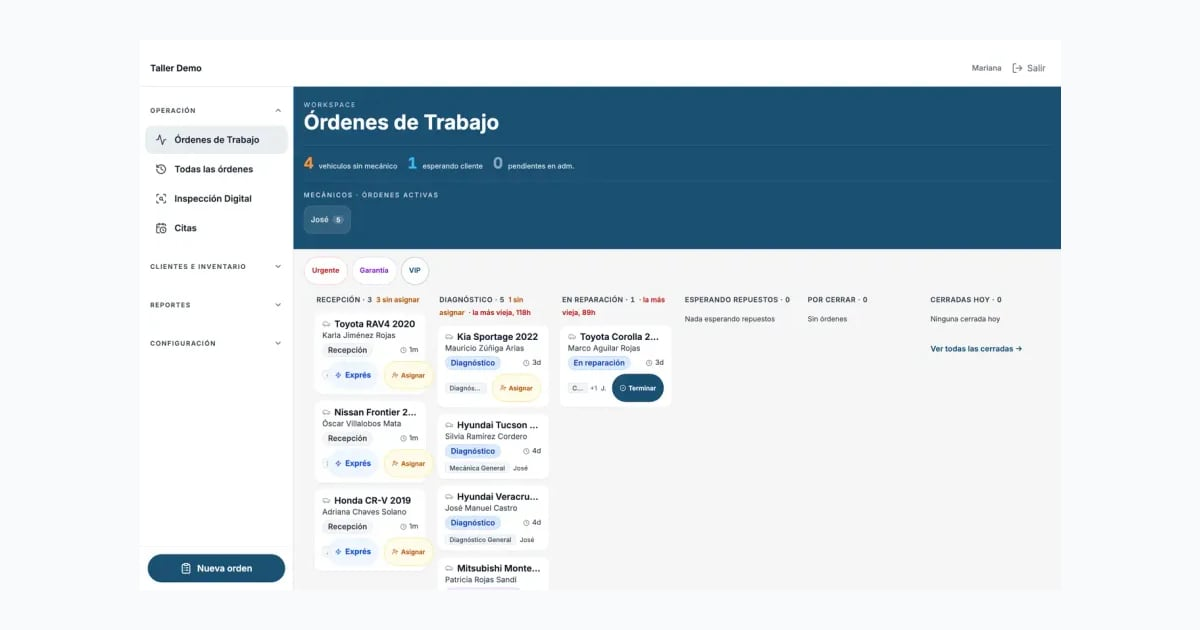
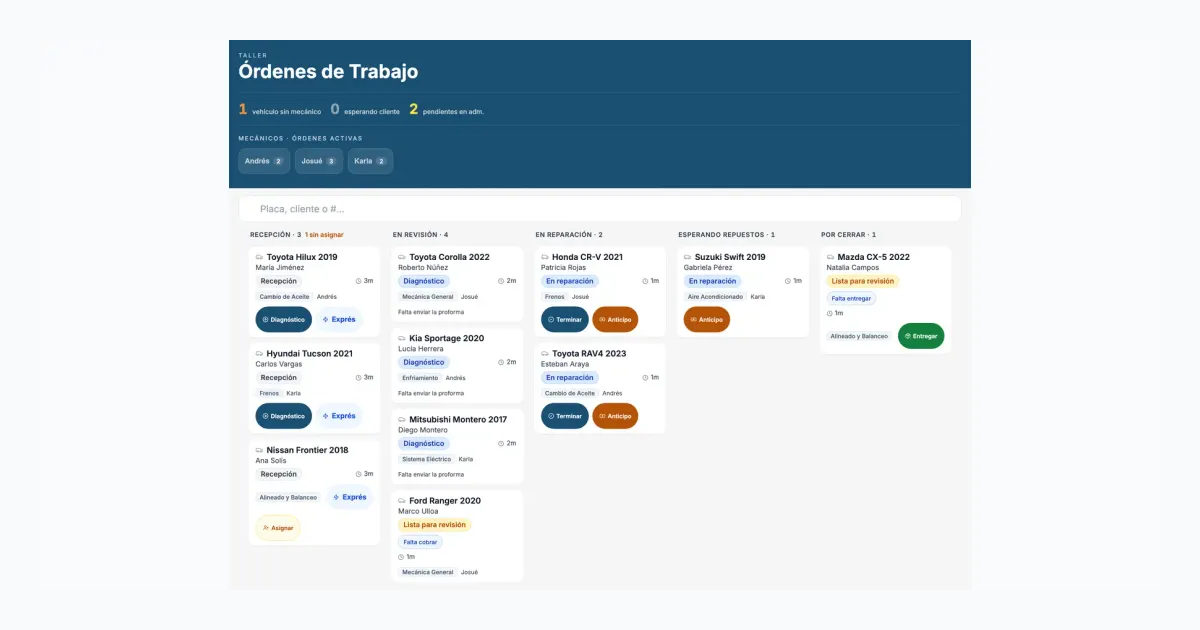
El nav se comía la primera pantalla del teléfono · y la proforma deja de ser una foto (#44)
* fix(nav): la cabecera se comía la primera pantalla del teléfono

Medido el 2026-10-09 en un teléfono de 812 px: la barra ocupaba 146 px
—la marca en una línea y los enlaces envueltos en dos— y empujaba la
primera imagen del producto a y=879, debajo del pliegue. Un dueño abría
el sitio en el teléfono y no veía el sistema hasta bajar.

Ahora la barra mide 45 px y la imagen sube a 719 en un iPhone común. A
320 px queda en 778; antes era 829.

   ancho   barra antes → después   1ª imagen antes → después
   320      96 → 45                 824 → 778
   375     146 → 45                 879 → 719
   390     146 → 45                 879 → 691

El menú se colapsa con <details>, que es lo que esta hoja ya usa para
los desplegables: cero JavaScript y el estado abierto lo lleva el
navegador. A partir de 56rem —medido: es donde la barra pasaba sola de
146 a 45— el <details> se vuelve `display:contents` y el menú
desaparece, así que el escritorio queda exactamente como estaba y no
hay una segunda maqueta que mantener.

Dos cosas que salieron de verificar, no del plan:

· El botón del menú daba 83x39 de área táctil, bajo el mínimo de 44.
  `min-height:44px`.

· A 320 px la marca (199) y el botón (85) no caben en los 288 de la
  barra. Se esconde el subtítulo «Costa Rica», que mide 65 y aparece
  otras tres veces en la página más la meta description.

Y un defecto ajeno que apareció al medir: `.cta-fijo` —la barra de
precio del pie— no estaba dentro de ningún landmark, y axe lo marca.
[…]

diff --git a/styles.css b/styles.css
@@ -851,6 +851,109 @@ main > .env:not(.texto) > .nota,
 
    Cada lista incluye su propia página índice como primer ítem, para que abrir
    el desplegable no le quite al visitante el destino que el rótulo prometía. */
+/* ── Maqueta de producto en HTML ───────────────────────────────────────────
+   Una pantalla del producto dibujada con marcado, no fotografiada.
+
+   Por qué, medido: `board.webp` dijo «DIAGNÓSTICO» tres semanas después de
+   que el producto renombrara esa columna a «En revisión», y corregirlo exigió
+   levantar Supabase local, sembrar once órdenes y rehacer la foto. Una
+   maqueta también se desactualiza —no miente menos—, pero arreglarla es
+   editar una línea en vez de reconstruir un entorno.
+
+   Lo que además gana: refluye sola a cualquier ancho (la captura era un PNG
+   de ancho fijo), el texto se puede buscar y leer con lector de pantalla, y
+   pesa ~2 KB de marcado contra los 29 828 B del WebP.
+
+   Los botones son <span>, no <button>: esto ilustra, no funciona. Un control
+   real acá sería enfocable y prometería una acción que no existe. */
+.maqueta{
+  max-width:20rem; margin-inline:auto; font-size:.8125rem; line-height:1.45;
+  border:1px solid var(--linea); border-radius:16px; overflow:hidden;
+  background:var(--blanco); box-shadow:var(--sombra-alta);
+}
+.maqueta-tope{background:var(--acento);color:var(--blanco);padding:.9rem 1rem}
+.maqueta-tope b{display:block;font-size:.875rem}
+.maqueta-tope span{display:block;opacity:.85;font-size:.75rem}
+.maqueta-tope p{margin:.7rem 0 0;font-size:1.0625rem;font-weight:700}
+.maqueta-tope .vence{margin:.35rem 0 0;font-size:.75rem;font-weight:400;opacity:.9}
+.maqueta-cuerpo{padding:.85rem;display:grid;gap:.7rem;background:var(--fondo-alt)}
+.maqueta-caja{background:var(--blanco);border:1px solid var(--linea);border-radius:12px;padding:.75rem}
+.maqueta-caja h4{margin:0;font-size:.8125rem}
+.maqueta-caja h4 + p{margin:.2rem 0 0;color:var(--muted);font-size:.75rem}
+.maqueta-linea{border-top:1px solid var(--linea);padding-top:.6rem;margin-top:.6rem}
+.maqueta-linea:first-of-type{border-top:0;padding-top:0;margin-top:0}
+.maqueta-linea > div{display:flex;justify-content:space-between;align-items:baseline;gap:.5rem}
+.maqueta-linea .monto{font-weight:700;white-space:nowrap;font-variant-numeric:tabular-nums}
+.maqueta-ops{display:flex;gap:.4rem;margin-top:.45rem}
+.maqueta-ops span{
+  flex:1;text-align:center;border:1px solid var(--linea);border-radius:8px;
+  padding:.4rem;font-weight:600;font-size:.75rem;color:var(--muted);
+}
+.maqueta-pie{background:var(--blanco);border-top:1px solid var(--linea);padding:.8rem;text-align:center}
+.maqueta-pie .cuenta{margin:0 0 .5rem;font-size:.75rem;color:var(--muted)}
+.maqueta-pie .par{display:flex;gap:.5rem}
+.maqueta-pie .par span{flex:1;border-radius:8px;padding:.5rem;font-weight:700;font-size:.8125rem}
+.maqueta-pie .no{border:1px solid #FCA5A5;color:#B91C1C}
+.maqueta-pie .si{background:var(--acento);color:var(--blanco)}
+.maqueta-pie .aclara{margin:.6rem 0 0;font-size:.6875rem;color:var(--muted);line-height:1.4}
+
+/* ── El menú de teléfono ───────────────────────────────────────────────────
+   Medido el 2026-10-09: a 375 px la cabecera ocupaba 146 px —la marca en una
+   línea y los enlaces envueltos en dos— y empujaba la primera imagen del
+   producto a y=879, debajo del pliegue de 812. Un dueño abría el sitio en el
+   teléfono y no veía el sistema hasta bajar.
+
+   Se colapsa con <details>, que es lo que esta hoja ya usa para los
+   desplegables: cero JavaScript y el navegador gestiona el estado abierto.
+
+   A partir de 56rem (900 px) todo cabe en una línea —medido: la barra pasa de
+   146 a 45 px—, así que ahí el <details> se vuelve `display:contents` y el
+   menú desaparece: el nav queda EXACTAMENTE como estaba, sin una regla nueva
+   que mantener para el escritorio. */
+.menu > summary{
+  list-style:none; cursor:pointer; font-weight:600; font-size:.9375rem;
+  padding:.4rem .9rem; border:1px solid var(--linea); border-radius:999px;
+  display:inline-flex; align-items:center; gap:.4rem;
+  /* 44px es el mínimo táctil; con el padding solo daba 39 (medido). */
+  min-height:44px;
+}
+.menu > summary::-webkit-details-marker{display:none}
+.menu > summary::after{
+  content:""; width:.42em; height:.42em; border-right:2px solid currentColor;
+  border-bottom:2px solid currentColor; transform:rotate(45deg) translate(-.06em,-.06em);
+}
+.menu[open] > summary::after{transform:rotate(225deg) translate(-.06em,-.06em)}
+.menu > summary:focus-visible{outline:3px solid var(--acento);outline-offset:3px}
+.menu-panel{
+  position:absolute; right:0; left:0; margin-top:.6rem; z-index:40;
+  display:flex; flex-direction:column; align-items:flex-start; gap:.25rem;
+  background:var(--blanco); border:1px solid var(--linea); border-radius:12px;
+  padding:.6rem; box-shadow:var(--sombra-alta);
+}
+.menu-panel > a,
+.menu-panel .desplegable > summary{padding:.55rem .6rem; min-height:44px; display:flex; align-items:center}
+/* Dentro del panel el submenú se abre en el flujo, no flotando sobre él. */
+.menu-panel .desplegable{position:static; width:100%}
+.menu-panel .desplegable-lista{position:static; box-shadow:none; border:0; padding-left:.9rem; min-width:0}
+.menu{position:static}
+.barra{position:relative}
+
+/* A 320 px la marca (199 px) y el botón (85) no caben en los 288 de la barra:
+   faltan 12 con el hueco de 1rem. El subtítulo «Costa Rica» mide 65 y aparece
+   otras tres veces en la página más la meta description, así que esconderlo
+   acá no pierde el posicionamiento y devuelve la cabecera a una sola línea. */
+@media(max-width:22rem){
+  .marca span{display:none}
+  .barra{gap:.5rem}
+}
+
+@media(min-width:56rem){
+  /* El <details> desaparece del layout y sus hijos vuelven a ser hijos del
+     <nav>: el escritorio queda byte por byte como antes del cambio. */
+  .menu, .menu-panel{display:contents}
+  .menu > summary{display:none}
+}
+
 .desplegable{position:relative}
 .desplegable > summary{
   display:inline-flex;align-items:center;gap:.3rem;min-height:44px;

diff --git a/para/vehiculos-electricos.html b/para/vehiculos-electricos.html
@@ -14,7 +14,7 @@
 <meta property="og:image" content="https://integranucleo.com/imagenes/og.jpg">
 <meta property="og:image:width" content="1200">
 <meta property="og:image:height" content="630">
-<meta property="og:image:alt" content="El tablero de órdenes de Integra Núcleo, con las columnas de recepción, diagnóstico y reparación.">
+<meta property="og:image:alt" content="El tablero de órdenes de Integra Núcleo, con sus cinco columnas: recepción, en revisión, en reparación, esperando repuestos y por cerrar.">
 <meta name="twitter:card" content="summary_large_image">
 <meta name="robots" content="index,follow">
 <link rel="preload" href="/fonts/inter-latin-var.woff2" as="font" type="font/woff2" crossorigin>
@@ -25,7 +25,7 @@
   <div class="env">
     <div class="barra">
       <a class="marca" href="/"><b>Integra Núcleo</b><span>Costa Rica</span></a>
-      <nav aria-label="Principal"><a href="/funciones">Funciones</a><details class="desplegable" name="menu"><summary aria-current="true">Tipos de taller</summary><div class="desplegable-lista"><a href="/para">Ver los tres</a><a href="/para/taller-general">Taller general</a><a href="/para/centro-de-servicio">Centro de servicio</a><a href="/para/vehiculos-electricos" aria-current="page">Eléctricos e híbridos</a></div></details><details class="desplegable" name="menu"><summary>Recursos</summary><div class="desplegable-lista"><a href="/recursos">Todos los recursos</a><a href="/plantillas">Plantillas para imprimir</a><a href="/aria">Cómo funciona nuestra IA</a></div></details><a href="/precios">Precios</a><a href="/contacto">Contacto</a><a class="entrar" href="https://integranucleo.app">Entrar</a></nav>
+      <nav aria-label="Principal"><details class="menu"><summary>Menú</summary><div class="menu-panel"><a href="/funciones">Funciones</a><details class="desplegable" name="menu"><summary aria-current="true">Tipos de taller</summary><div class="desplegable-lista"><a href="/para">Ver los tres</a><a href="/para/taller-general">Taller general</a><a href="/para/centro-de-servicio">Centro de servicio</a><a href="/para/vehiculos-electricos" aria-current="page">Eléctricos e híbridos</a></div></details><details class="desplegable" name="menu"><summary>Recursos</summary><div class="desplegable-lista"><a href="/recursos">Todos los recursos</a><a href="/plantillas">Plantillas para imprimir</a><a href="/aria">Cómo funciona nuestra IA</a></div></details><a href="/precios">Precios</a><a href="/contacto">Contacto</a><a class="entrar" href="https://integranucleo.app">Entrar</a></div></details></nav>
     </div>
   </div>
 </header>
@@ -116,12 +116,41 @@
           </ul>
         </div>
       </div>
-      <figure class="captura captura--telefono">
-        <img src="/imagenes/proforma-cliente.webp" width="420" height="1053" loading="lazy" decoding="async"
-             alt="La proforma como la abre el cliente en su teléfono. Dice hasta qué fecha vale el
-                  precio, lista cada repuesto con su monto y da dos botones por línea —«Lo quiero»
-                  y «Ahora no»—, con el aviso de que lo marcado «Ahora no» no se cobra ni se hace.">
-        <figcaption>La proforma que el cliente autoriza punto por punto, desde su teléfono. Datos de un taller de demostración.</figcaption>
+      <figure class="captura">
+        <div class="maqueta">
+          <div class="maqueta-tope">
+            <b>Taller Demostración</b><span>con tecnología de Integra Núcleo</span>
+            <p>Proforma de servicio</p>
+            <p class="vence">Este precio vale hasta el 21 de octubre.</p>
+          </div>
+          <div class="maqueta-cuerpo">
+            <div class="maqueta-caja">
+              <h4>Mitsubishi Montero 2017</h4>
+              <p>Placa: CPN163 · 121&#8239;700&nbsp;km</p>
+            </div>
+            <div class="maqueta-caja">
+              <h4>Repuestos y mano de obra</h4>
+              <div class="maqueta-linea" style="margin-top:.7rem">
+                <div><span>Alternador reconstruido 90A</span><span class="monto">₡96&#8239;000</span></div>
+                <p class="maqueta-ops"><span>Lo quiero</span><span>Ahora no</span></p>
+              </div>
+              <div class="maqueta-linea">
+                <div><span>Banda de accesorios</span><span class="monto">₡18&#8239;500</span></div>
+                <p class="maqueta-ops"><span>Lo quiero</span><span>Ahora no</span></p>
+              </div>
+              <div class="maqueta-linea">
+                <div><span>Batería 12V 75Ah</span><span class="monto">₡72&#8239;000</span></div>
+                <p class="maqueta-ops"><span>Lo quiero</span><span>Ahora no</span></p>
+              </div>
+            </div>
+          </div>
+          <div class="maqueta-pie">
+            <p class="cuenta">Te faltan <b>3</b> ítems por decidir</p>
+            <p class="par"><span class="no">Rechazar todo</span><span class="si">Aprobar todo</span></p>
+            <p class="aclara">Lo que marcaste «Ahora no» no se cobra ni se hace — el taller lo guarda por si lo querés después.</p>
+          </div>
+        </div>
+        <figcaption>La proforma que el cliente autoriza punto por punto, desde su teléfono. Reproducción de la pantalla del producto, con datos de un taller de demostración.</figcaption>
       </figure>
     </section>
 

diff --git a/para/centro-de-servicio.html b/para/centro-de-servicio.html
@@ -9,12 +9,12 @@
 <meta property="og:type" content="website">
 <meta property="og:url" content="https://integranucleo.com/para/centro-de-servicio">
 <meta property="og:title" content="Integra Núcleo para el centro de servicio y el servicio rápido">
-<meta property="og:description" content="El carro entra y sale el mismo día: el tablero se acorta y el catálogo entiende la llanta.">
+<meta property="og:description" content="El carro entra y sale el mismo día: la orden exprés salta el presupuesto y el catálogo entiende la llanta.">
 <meta property="og:locale" content="es_CR">
 <meta property="og:image" content="https://integranucleo.com/imagenes/og.jpg">
 <meta property="og:image:width" content="1200">
 <meta property="og:image:height" content="630">
-<meta property="og:image:alt" content="El tablero de órdenes de Integra Núcleo, con las columnas de recepción, diagnóstico y reparación.">
+<meta property="og:image:alt" content="El tablero de órdenes de Integra Núcleo, con sus cinco columnas: recepción, en revisión, en reparación, esperando repuestos y por cerrar.">
 <meta name="twitter:card" content="summary_large_image">
 <meta name="robots" content="index,follow">
 <link rel="preload" href="/fonts/inter-latin-var.woff2" as="font" type="font/woff2" crossorigin>
@@ -25,7 +25,7 @@
   <div class="env">
     <div class="barra">
       <a class="marca" href="/"><b>Integra Núcleo</b><span>Costa Rica</span></a>
-      <nav aria-label="Principal"><a href="/funciones">Funciones</a><details class="desplegable" name="menu"><summary aria-current="true">Tipos de taller</summary><div class="desplegable-lista"><a href="/para">Ver los tres</a><a href="/para/taller-general">Taller general</a><a href="/para/centro-de-servicio" aria-current="page">Centro de servicio</a><a href="/para/vehiculos-electricos">Eléctricos e híbridos</a></div></details><details class="desplegable" name="menu"><summary>Recursos</summary><div class="desplegable-lista"><a href="/recursos">Todos los recursos</a><a href="/plantillas">Plantillas para imprimir</a><a href="/aria">Cómo funciona nuestra IA</a></div></details><a href="/precios">Precios</a><a href="/contacto">Contacto</a><a class="entrar" href="https://integranucleo.app">Entrar</a></nav>
+      <nav aria-label="Principal"><details class="menu"><summary>Menú</summary><div class="menu-panel"><a href="/funciones">Funciones</a><details class="desplegable" name="menu"><summary aria-current="true">Tipos de taller</summary><div class="desplegable-lista"><a href="/para">Ver los tres</a><a href="/para/taller-general">Taller general</a><a href="/para/centro-de-servicio" aria-current="page">Centro de servicio</a><a href="/para/vehiculos-electricos">Eléctricos e híbridos</a></div></details><details class="desplegable" name="menu"><summary>Recursos</summary><div class="desplegable-lista"><a href="/recursos">Todos los recursos</a><a href="/plantillas">Plantillas para imprimir</a><a href="/aria">Cómo funciona nuestra IA</a></div></details><a href="/precios">Precios</a><a href="/contacto">Contacto</a><a class="entrar" href="https://integranucleo.app">Entrar</a></div></details></nav>
     </div>
   </div>
 </header>
@@ -47,7 +47,7 @@
         <div>
           <svg class="ico" viewBox="0 0 24 24" fill="none" stroke="currentColor" stroke-width="1.75" stroke-linecap="round" stroke-linejoin="round" aria-hidden="true"><rect x="3" y="4" width="5" height="16" rx="1.5"/><rect x="10" y="4" width="5" height="11" rx="1.5"/><rect x="17" y="4" width="4" height="7" rx="1.5"/></svg>
           <h3>La orden exprés salta el presupuesto</h3>
-          <p>Si el trabajo ya tiene precio, la tarjeta ofrece cerrarlo sin pasar por proforma: eso es lo que hace que el carro entre y salga el mismo turno. Y el tablero de supervisión del gerente se acorta a cuatro columnas.</p>
+          <p>Si el trabajo ya tiene precio, la tarjeta ofrece cerrarlo sin pasar por proforma: eso es lo que hace que el carro entre y salga el mismo turno. Y en el tablero la columna de reparación se llama «En servicio», que es como lo nombra un centro de servicio.</p>
         </div>
         <div>
           <svg class="ico" viewBox="0 0 24 24" fill="none" stroke="currentColor" stroke-width="1.75" stroke-linecap="round" stroke-linejoin="round" aria-hidden="true"><path d="M3 12.5V4.8A1.8 1.8 0 0 1 4.8 3h7.7l8.2 8.2a1.8 1.8 0 0 1 0 2.5l-6.4 6.4a1.8 1.8 0 0 1-2.5 0z"/><circle cx="8" cy="8" r="1.5"/></svg>

diff --git a/precios.html b/precios.html
@@ -14,7 +14,7 @@
 <meta property="og:image" content="https://integranucleo.com/imagenes/og.jpg">
 <meta property="og:image:width" content="1200">
 <meta property="og:image:height" content="630">
-<meta property="og:image:alt" content="El tablero de órdenes de Integra Núcleo, con las columnas de recepción, diagnóstico y reparación.">
+<meta property="og:image:alt" content="El tablero de órdenes de Integra Núcleo, con sus cinco columnas: recepción, en revisión, en reparación, esperando repuestos y por cerrar.">
 <meta name="twitter:card" content="summary_large_image">
 <meta name="robots" content="index,follow">
 <link rel="preload" href="/fonts/inter-latin-var.woff2" as="font" type="font/woff2" crossorigin>
@@ -25,7 +25,7 @@
   <div class="env">
     <div class="barra">
       <a class="marca" href="/"><b>Integra Núcleo</b><span>Costa Rica</span></a>
-      <nav aria-label="Principal"><a href="/funciones">Funciones</a><details class="desplegable" name="menu"><summary>Tipos de taller</summary><div class="desplegable-lista"><a href="/para">Ver los tres</a><a href="/para/taller-general">Taller general</a><a href="/para/centro-de-servicio">Centro de servicio</a><a href="/para/vehiculos-electricos">Eléctricos e híbridos</a></div></details><details class="desplegable" name="menu"><summary>Recursos</summary><div class="desplegable-lista"><a href="/recursos">Todos los recursos</a><a href="/plantillas">Plantillas para imprimir</a><a href="/aria">Cómo funciona nuestra IA</a></div></details><a href="/precios" aria-current="page">Precios</a><a href="/contacto">Contacto</a><a class="entrar" href="https://integranucleo.app">Entrar</a></nav>
+      <nav aria-label="Principal"><details class="menu"><summary>Menú</summary><div class="menu-panel"><a href="/funciones">Funciones</a><details class="desplegable" name="menu"><summary>Tipos de taller</summary><div class="desplegable-lista"><a href="/para">Ver los tres</a><a href="/para/taller-general">Taller general</a><a href="/para/centro-de-servicio">Centro de servicio</a><a href="/para/vehiculos-electricos">Eléctricos e híbridos</a></div></details><details class="desplegable" name="menu"><summary>Recursos</summary><div class="desplegable-lista"><a href="/recursos">Todos los recursos</a><a href="/plantillas">Plantillas para imprimir</a><a href="/aria">Cómo funciona nuestra IA</a></div></details><a href="/precios" aria-current="page">Precios</a><a href="/contacto">Contacto</a><a class="entrar" href="https://integranucleo.app">Entrar</a></div></details></nav>
     </div>
   </div>
 </header>
@@ -167,7 +167,7 @@
     <p><a href="/privacidad">Privacidad</a> · <a href="/terminos">Términos</a> · <a href="/contacto">Contacto</a> · <a href="https://integranucleo.app">Entrar</a></p>
   </div>
 </footer>
-<div class="cta-fijo">
+<div class="cta-fijo" role="region" aria-label="Precio y demostración">
   <p class="precio-desde">Mecánicos ilimitados</p>
   <a class="btn btn-1" href="/contacto?de=precios">Pedir una demostración</a>
 </div>

diff --git a/index.html b/index.html
@@ -14,7 +14,7 @@
 <meta property="og:image" content="https://integranucleo.com/imagenes/og.jpg">
 <meta property="og:image:width" content="1200">
 <meta property="og:image:height" content="630">
-<meta property="og:image:alt" content="El tablero de órdenes de Integra Núcleo, con las columnas de recepción, diagnóstico y reparación.">
+<meta property="og:image:alt" content="El tablero de órdenes de Integra Núcleo, con sus cinco columnas: recepción, en revisión, en reparación, esperando repuestos y por cerrar.">
 <meta name="twitter:card" content="summary_large_image">
 <meta name="robots" content="index,follow">
 <link rel="preload" href="/fonts/inter-latin-var.woff2" as="font" type="font/woff2" crossorigin>
@@ -25,7 +25,7 @@
   <div class="env">
     <div class="barra">
       <a class="marca" href="/"><b>Integra Núcleo</b><span>Costa Rica</span></a>
-      <nav aria-label="Principal"><a href="/funciones">Funciones</a><details class="desplegable" name="menu"><summary>Tipos de taller</summary><div class="desplegable-lista"><a href="/para">Ver los tres</a><a href="/para/taller-general">Taller general</a><a href="/para/centro-de-servicio">Centro de servicio</a><a href="/para/vehiculos-electricos">Eléctricos e híbridos</a></div></details><details class="desplegable" name="menu"><summary>Recursos</summary><div class="desplegable-lista"><a href="/recursos">Todos los recursos</a><a href="/plantillas">Plantillas para imprimir</a><a href="/aria">Cómo funciona nuestra IA</a></div></details><a href="/precios">Precios</a><a href="/contacto">Contacto</a><a class="entrar" href="https://integranucleo.app">Entrar</a></nav>
+      <nav aria-label="Principal"><details class="menu"><summary>Menú</summary><div class="menu-panel"><a href="/funciones">Funciones</a><details class="desplegable" name="menu"><summary>Tipos de taller</summary><div class="desplegable-lista"><a href="/para">Ver los tres</a><a href="/para/taller-general">Taller general</a><a href="/para/centro-de-servicio">Centro de servicio</a><a href="/para/vehiculos-electricos">Eléctricos e híbridos</a></div></details><details class="desplegable" name="menu"><summary>Recursos</summary><div class="desplegable-lista"><a href="/recursos">Todos los recursos</a><a href="/plantillas">Plantillas para imprimir</a><a href="/aria">Cómo funciona nuestra IA</a></div></details><a href="/precios">Precios</a><a href="/contacto">Contacto</a><a class="entrar" href="https://integranucleo.app">Entrar</a></div></details></nav>
     </div>
   </div>
 </header>
@@ -308,7 +308,7 @@
     <p><a href="/privacidad">Privacidad</a> · <a href="/terminos">Términos</a> · <a href="/contacto">Contacto</a> · <a href="https://integranucleo.app">Entrar</a></p>
   </div>
 </footer>
-<div class="cta-fijo">
+<div class="cta-fijo" role="region" aria-label="Precio y demostración">
   <p class="precio-desde">Desde <b>₡25.000</b> por sucursal</p>
   <a class="btn btn-1" href="/contacto?de=home">Pedir demostración</a>
 </div>

diff --git a/aria.html b/aria.html
@@ -14,7 +14,7 @@
 <meta property="og:image" content="https://integranucleo.com/imagenes/og.jpg">
 <meta property="og:image:width" content="1200">
 <meta property="og:image:height" content="630">
-<meta property="og:image:alt" content="El tablero de órdenes de Integra Núcleo, con las columnas de recepción, diagnóstico y reparación.">
+<meta property="og:image:alt" content="El tablero de órdenes de Integra Núcleo, con sus cinco columnas: recepción, en revisión, en reparación, esperando repuestos y por cerrar.">
 <meta name="twitter:card" content="summary_large_image">
 <meta name="robots" content="index,follow">
 <link rel="preload" href="/fonts/inter-latin-var.woff2" as="font" type="font/woff2" crossorigin>
@@ -25,7 +25,7 @@
   <div class="env">
     <div class="barra">
       <a class="marca" href="/"><b>Integra Núcleo</b><span>Costa Rica</span></a>
-      <nav aria-label="Principal"><a href="/funciones">Funciones</a><details class="desplegable" name="menu"><summary>Tipos de taller</summary><div class="desplegable-lista"><a href="/para">Ver los tres</a><a href="/para/taller-general">Taller general</a><a href="/para/centro-de-servicio">Centro de servicio</a><a href="/para/vehiculos-electricos">Eléctricos e híbridos</a></div></details><details class="desplegable" name="menu"><summary aria-current="true">Recursos</summary><div class="desplegable-lista"><a href="/recursos">Todos los recursos</a><a href="/plantillas">Plantillas para imprimir</a><a href="/aria" aria-current="page">Cómo funciona nuestra IA</a></div></details><a href="/precios">Precios</a><a href="/contacto">Contacto</a><a class="entrar" href="https://integranucleo.app">Entrar</a></nav>
+      <nav aria-label="Principal"><details class="menu"><summary>Menú</summary><div class="menu-panel"><a href="/funciones">Funciones</a><details class="desplegable" name="menu"><summary>Tipos de taller</summary><div class="desplegable-lista"><a href="/para">Ver los tres</a><a href="/para/taller-general">Taller general</a><a href="/para/centro-de-servicio">Centro de servicio</a><a href="/para/vehiculos-electricos">Eléctricos e híbridos</a></div></details><details class="desplegable" name="menu"><summary aria-current="true">Recursos</summary><div class="desplegable-lista"><a href="/recursos">Todos los recursos</a><a href="/plantillas">Plantillas para imprimir</a><a href="/aria" aria-current="page">Cómo funciona nuestra IA</a></div></details><a href="/precios">Precios</a><a href="/contacto">Contacto</a><a class="entrar" href="https://integranucleo.app">Entrar</a></div></details></nav>
     </div>
   </div>
 </header>

diff --git a/para.html b/para.html
@@ -14,7 +14,7 @@
 <meta property="og:image" content="https://integranucleo.com/imagenes/og.jpg">
 <meta property="og:image:width" content="1200">
 <meta property="og:image:height" content="630">
-<meta property="og:image:alt" content="El tablero de órdenes de Integra Núcleo, con las columnas de recepción, diagnóstico y reparación.">
+<meta property="og:image:alt" content="El tablero de órdenes de Integra Núcleo, con sus cinco columnas: recepción, en revisión, en reparación, esperando repuestos y por cerrar.">
 <meta name="twitter:card" content="summary_large_image">
 <meta name="robots" content="index,follow">
 <link rel="preload" href="/fonts/inter-latin-var.woff2" as="font" type="font/woff2" crossorigin>
@@ -25,7 +25,7 @@
   <div class="env">
     <div class="barra">
       <a class="marca" href="/"><b>Integra Núcleo</b><span>Costa Rica</span></a>
-      <nav aria-label="Principal"><a href="/funciones">Funciones</a><details class="desplegable" name="menu"><summary aria-current="true">Tipos de taller</summary><div class="desplegable-lista"><a href="/para" aria-current="page">Ver los tres</a><a href="/para/taller-general">Taller general</a><a href="/para/centro-de-servicio">Centro de servicio</a><a href="/para/vehiculos-electricos">Eléctricos e híbridos</a></div></details><details class="desplegable" name="menu"><summary>Recursos</summary><div class="desplegable-lista"><a href="/recursos">Todos los recursos</a><a href="/plantillas">Plantillas para imprimir</a><a href="/aria">Cómo funciona nuestra IA</a></div></details><a href="/precios">Precios</a><a href="/contacto">Contacto</a><a class="entrar" href="https://integranucleo.app">Entrar</a></nav>
+      <nav aria-label="Principal"><details class="menu"><summary>Menú</summary><div class="menu-panel"><a href="/funciones">Funciones</a><details class="desplegable" name="menu"><summary aria-current="true">Tipos de taller</summary><div class="desplegable-lista"><a href="/para" aria-current="page">Ver los tres</a><a href="/para/taller-general">Taller general</a><a href="/para/centro-de-servicio">Centro de servicio</a><a href="/para/vehiculos-electricos">Eléctricos e híbridos</a></div></details><details class="desplegable" name="menu"><summary>Recursos</summary><div class="desplegable-lista"><a href="/recursos">Todos los recursos</a><a href="/plantillas">Plantillas para imprimir</a><a href="/aria">Cómo funciona nuestra IA</a></div></details><a href="/precios">Precios</a><a href="/contacto">Contacto</a><a class="entrar" href="https://integranucleo.app">Entrar</a></div></details></nav>
     </div>
   </div>
 </header>

diff --git a/para/taller-general.html b/para/taller-general.html
@@ -14,7 +14,7 @@
 <meta property="og:image" content="https://integranucleo.com/imagenes/og.jpg">
 <meta property="og:image:width" content="1200">
 <meta property="og:image:height" content="630">
-<meta property="og:image:alt" content="El tablero de órdenes de Integra Núcleo, con las columnas de recepción, diagnóstico y reparación.">
+<meta property="og:image:alt" content="El tablero de órdenes de Integra Núcleo, con sus cinco columnas: recepción, en revisión, en reparación, esperando repuestos y por cerrar.">
 <meta name="twitter:card" content="summary_large_image">
 <meta name="robots" content="index,follow">
 <link rel="preload" href="/fonts/inter-latin-var.woff2" as="font" type="font/woff2" crossorigin>
@@ -25,7 +25,7 @@
   <div class="env">
     <div class="barra">
       <a class="marca" href="/"><b>Integra Núcleo</b><span>Costa Rica</span></a>
-      <nav aria-label="Principal"><a href="/funciones">Funciones</a><details class="desplegable" name="menu"><summary aria-current="true">Tipos de taller</summary><div class="desplegable-lista"><a href="/para">Ver los tres</a><a href="/para/taller-general" aria-current="page">Taller general</a><a href="/para/centro-de-servicio">Centro de servicio</a><a href="/para/vehiculos-electricos">Eléctricos e híbridos</a></div></details><details class="desplegable" name="menu"><summary>Recursos</summary><div class="desplegable-lista"><a href="/recursos">Todos los recursos</a><a href="/plantillas">Plantillas para imprimir</a><a href="/aria">Cómo funciona nuestra IA</a></div></details><a href="/precios">Precios</a><a href="/contacto">Contacto</a><a class="entrar" href="https://integranucleo.app">Entrar</a></nav>
+      <nav aria-label="Principal"><details class="menu"><summary>Menú</summary><div class="menu-panel"><a href="/funciones">Funciones</a><details class="desplegable" name="menu"><summary aria-current="true">Tipos de taller</summary><div class="desplegable-lista"><a href="/para">Ver los tres</a><a href="/para/taller-general" aria-current="page">Taller general</a><a href="/para/centro-de-servicio">Centro de servicio</a><a href="/para/vehiculos-electricos">Eléctricos e híbridos</a></div></details><details class="desplegable" name="menu"><summary>Recursos</summary><div class="desplegable-lista"><a href="/recursos">Todos los recursos</a><a href="/plantillas">Plantillas para imprimir</a><a href="/aria">Cómo funciona nuestra IA</a></div></details><a href="/precios">Precios</a><a href="/contacto">Contacto</a><a class="entrar" href="https://integranucleo.app">Entrar</a></div></details></nav>
     </div>
   </div>
 </header>

diff --git a/plantillas.html b/plantillas.html
@@ -14,7 +14,7 @@
 <meta property="og:image" content="https://integranucleo.com/imagenes/og.jpg">
 <meta property="og:image:width" content="1200">
 <meta property="og:image:height" content="630">
-<meta property="og:image:alt" content="El tablero de órdenes de Integra Núcleo, con las columnas de recepción, diagnóstico y reparación.">
+<meta property="og:image:alt" content="El tablero de órdenes de Integra Núcleo, con sus cinco columnas: recepción, en revisión, en reparación, esperando repuestos y por cerrar.">
 <meta name="twitter:card" content="summary_large_image">
 <meta name="robots" content="index,follow">
 <link rel="preload" href="/fonts/inter-latin-var.woff2" as="font" type="font/woff2" crossorigin>
@@ -25,7 +25,7 @@
   <div class="env">
     <div class="barra">
       <a class="marca" href="/"><b>Integra Núcleo</b><span>Costa Rica</span></a>
-      <nav aria-label="Principal"><a href="/funciones">Funciones</a><details class="desplegable" name="menu"><summary>Tipos de taller</summary><div class="desplegable-lista"><a href="/para">Ver los tres</a><a href="/para/taller-general">Taller general</a><a href="/para/centro-de-servicio">Centro de servicio</a><a href="/para/vehiculos-electricos">Eléctricos e híbridos</a></div></details><details class="desplegable" name="menu"><summary aria-current="true">Recursos</summary><div class="desplegable-lista"><a href="/recursos">Todos los recursos</a><a href="/plantillas" aria-current="page">Plantillas para imprimir</a><a href="/aria">Cómo funciona nuestra IA</a></div></details><a href="/precios">Precios</a><a href="/contacto">Contacto</a><a class="entrar" href="https://integranucleo.app">Entrar</a></nav>
+      <nav aria-label="Principal"><details class="menu"><summary>Menú</summary><div class="menu-panel"><a href="/funciones">Funciones</a><details class="desplegable" name="menu"><summary>Tipos de taller</summary><div class="desplegable-lista"><a href="/para">Ver los tres</a><a href="/para/taller-general">Taller general</a><a href="/para/centro-de-servicio">Centro de servicio</a><a href="/para/vehiculos-electricos">Eléctricos e híbridos</a></div></details><details class="desplegable" name="menu"><summary aria-current="true">Recursos</summary><div class="desplegable-lista"><a href="/recursos">Todos los recursos</a><a href="/plantillas" aria-current="page">Plantillas para imprimir</a><a href="/aria">Cómo funciona nuestra IA</a></div></details><a href="/precios">Precios</a><a href="/contacto">Contacto</a><a class="entrar" href="https://integranucleo.app">Entrar</a></div></details></nav>
     </div>
   </div>
 </header>

diff --git a/recursos.html b/recursos.html
@@ -14,7 +14,7 @@
 <meta property="og:image" content="https://integranucleo.com/imagenes/og.jpg">
 <meta property="og:image:width" content="1200">
 <meta property="og:image:height" content="630">
-<meta property="og:image:alt" content="El tablero de órdenes de Integra Núcleo, con las columnas de recepción, diagnóstico y reparación.">
+<meta property="og:image:alt" content="El tablero de órdenes de Integra Núcleo, con sus cinco columnas: recepción, en revisión, en reparación, esperando repuestos y por cerrar.">
 <meta name="twitter:card" content="summary_large_image">
 <meta name="robots" content="index,follow">
 <link rel="preload" href="/fonts/inter-latin-var.woff2" as="font" type="font/woff2" crossorigin>
@@ -25,7 +25,7 @@
   <div class="env">
     <div class="barra">
       <a class="marca" href="/"><b>Integra Núcleo</b><span>Costa Rica</span></a>
-      <nav aria-label="Principal"><a href="/funciones">Funciones</a><details class="desplegable" name="menu"><summary>Tipos de taller</summary><div class="desplegable-lista"><a href="/para">Ver los tres</a><a href="/para/taller-general">Taller general</a><a href="/para/centro-de-servicio">Centro de servicio</a><a href="/para/vehiculos-electricos">Eléctricos e híbridos</a></div></details><details class="desplegable" name="menu"><summary aria-current="true">Recursos</summary><div class="desplegable-lista"><a href="/recursos" aria-current="page">Todos los recursos</a><a href="/plantillas">Plantillas para imprimir</a><a href="/aria">Cómo funciona nuestra IA</a></div></details><a href="/precios">Precios</a><a href="/contacto">Contacto</a><a class="entrar" href="https://integranucleo.app">Entrar</a></nav>
+      <nav aria-label="Principal"><details class="menu"><summary>Menú</summary><div class="menu-panel"><a href="/funciones">Funciones</a><details class="desplegable" name="menu"><summary>Tipos de taller</summary><div class="desplegable-lista"><a href="/para">Ver los tres</a><a href="/para/taller-general">Taller general</a><a href="/para/centro-de-servicio">Centro de servicio</a><a href="/para/vehiculos-electricos">Eléctricos e híbridos</a></div></details><details class="desplegable" name="menu"><summary aria-current="true">Recursos</summary><div class="desplegable-lista"><a href="/recursos" aria-current="page">Todos los recursos</a><a href="/plantillas">Plantillas para imprimir</a><a href="/aria">Cómo funciona nuestra IA</a></div></details><a href="/precios">Precios</a><a href="/contacto">Contacto</a><a class="entrar" href="https://integranucleo.app">Entrar</a></div></details></nav>
     </div>
   </div>
 </header>

diff --git a/recursos/cobrar-la-inspeccion.html b/recursos/cobrar-la-inspeccion.html
@@ -14,7 +14,7 @@
 <meta property="og:image" content="https://integranucleo.com/imagenes/og.jpg">
 <meta property="og:image:width" content="1200">
 <meta property="og:image:height" content="630">
-<meta property="og:image:alt" content="El tablero de órdenes de Integra Núcleo, con las columnas de recepción, diagnóstico y reparación.">
+<meta property="og:image:alt" content="El tablero de órdenes de Integra Núcleo, con sus cinco columnas: recepción, en revisión, en reparación, esperando repuestos y por cerrar.">
 <meta name="twitter:card" content="summary_large_image">
 <meta name="robots" content="index,follow">
 <link rel="preload" href="/fonts/inter-latin-var.woff2" as="font" type="font/woff2" crossorigin>
@@ -25,7 +25,7 @@
   <div class="env">
     <div class="barra">
       <a class="marca" href="/"><b>Integra Núcleo</b><span>Costa Rica</span></a>
-      <nav aria-label="Principal"><a href="/funciones">Funciones</a><details class="desplegable" name="menu"><summary>Tipos de taller</summary><div class="desplegable-lista"><a href="/para">Ver los tres</a><a href="/para/taller-general">Taller general</a><a href="/para/centro-de-servicio">Centro de servicio</a><a href="/para/vehiculos-electricos">Eléctricos e híbridos</a></div></details><details class="desplegable" name="menu"><summary aria-current="true">Recursos</summary><div class="desplegable-lista"><a href="/recursos" aria-current="page">Todos los recursos</a><a href="/plantillas">Plantillas para imprimir</a><a href="/aria">Cómo funciona nuestra IA</a></div></details><a href="/precios">Precios</a><a href="/contacto">Contacto</a><a class="entrar" href="https://integranucleo.app">Entrar</a></nav>
+      <nav aria-label="Principal"><details class="menu"><summary>Menú</summary><div class="menu-panel"><a href="/funciones">Funciones</a><details class="desplegable" name="menu"><summary>Tipos de taller</summary><div class="desplegable-lista"><a href="/para">Ver los tres</a><a href="/para/taller-general">Taller general</a><a href="/para/centro-de-servicio">Centro de servicio</a><a href="/para/vehiculos-electricos">Eléctricos e híbridos</a></div></details><details class="desplegable" name="menu"><summary aria-current="true">Recursos</summary><div class="desplegable-lista"><a href="/recursos" aria-current="page">Todos los recursos</a><a href="/plantillas">Plantillas para imprimir</a><a href="/aria">Cómo funciona nuestra IA</a></div></details><a href="/precios">Precios</a><a href="/contacto">Contacto</a><a class="entrar" href="https://integranucleo.app">Entrar</a></div></details></nav>
     </div>
   </div>
 </header>

diff --git a/recursos/cuadrar-la-caja.html b/recursos/cuadrar-la-caja.html
@@ -14,7 +14,7 @@
 <meta property="og:image" content="https://integranucleo.com/imagenes/og.jpg">
 <meta property="og:image:width" content="1200">
 <meta property="og:image:height" content="630">
-<meta property="og:image:alt" content="El tablero de órdenes de Integra Núcleo, con las columnas de recepción, diagnóstico y reparación.">
+<meta property="og:image:alt" content="El tablero de órdenes de Integra Núcleo, con sus cinco columnas: recepción, en revisión, en reparación, esperando repuestos y por cerrar.">
 <meta name="twitter:card" content="summary_large_image">
 <meta name="robots" content="index,follow">
 <link rel="preload" href="/fonts/inter-latin-var.woff2" as="font" type="font/woff2" crossorigin>
@@ -25,7 +25,7 @@
   <div class="env">
     <div class="barra">
       <a class="marca" href="/"><b>Integra Núcleo</b><span>Costa Rica</span></a>
-      <nav aria-label="Principal"><a href="/funciones">Funciones</a><details class="desplegable" name="menu"><summary>Tipos de taller</summary><div class="desplegable-lista"><a href="/para">Ver los tres</a><a href="/para/taller-general">Taller general</a><a href="/para/centro-de-servicio">Centro de servicio</a><a href="/para/vehiculos-electricos">Eléctricos e híbridos</a></div></details><details class="desplegable" name="menu"><summary aria-current="true">Recursos</summary><div class="desplegable-lista"><a href="/recursos" aria-current="page">Todos los recursos</a><a href="/plantillas">Plantillas para imprimir</a><a href="/aria">Cómo funciona nuestra IA</a></div></details><a href="/precios">Precios</a><a href="/contacto">Contacto</a><a class="entrar" href="https://integranucleo.app">Entrar</a></nav>
+      <nav aria-label="Principal"><details class="menu"><summary>Menú</summary><div class="menu-panel"><a href="/funciones">Funciones</a><details class="desplegable" name="menu"><summary>Tipos de taller</summary><div class="desplegable-lista"><a href="/para">Ver los tres</a><a href="/para/taller-general">Taller general</a><a href="/para/centro-de-servicio">Centro de servicio</a><a href="/para/vehiculos-electricos">Eléctricos e híbridos</a></div></details><details class="desplegable" name="menu"><summary aria-current="true">Recursos</summary><div class="desplegable-lista"><a href="/recursos" aria-current="page">Todos los recursos</a><a href="/plantillas">Plantillas para imprimir</a><a href="/aria">Cómo funciona nuestra IA</a></div></details><a href="/precios">Precios</a><a href="/contacto">Contacto</a><a class="entrar" href="https://integranucleo.app">Entrar</a></div></details></nav>
     </div>
   </div>
 </header>
